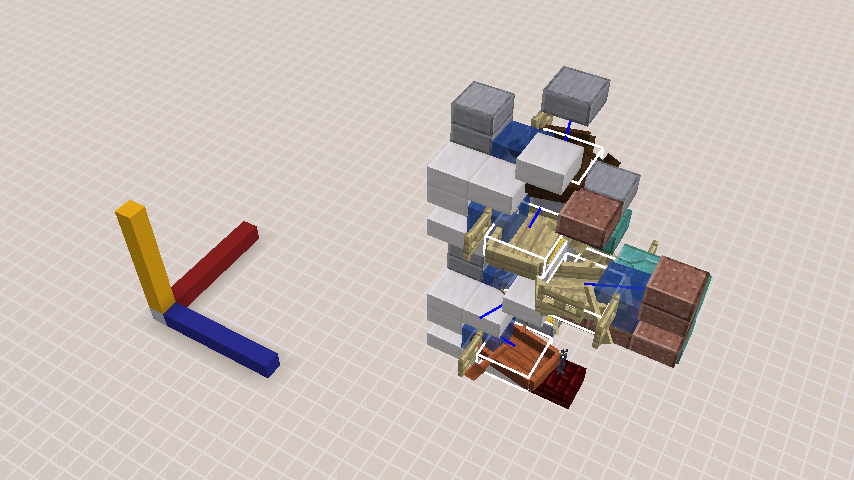
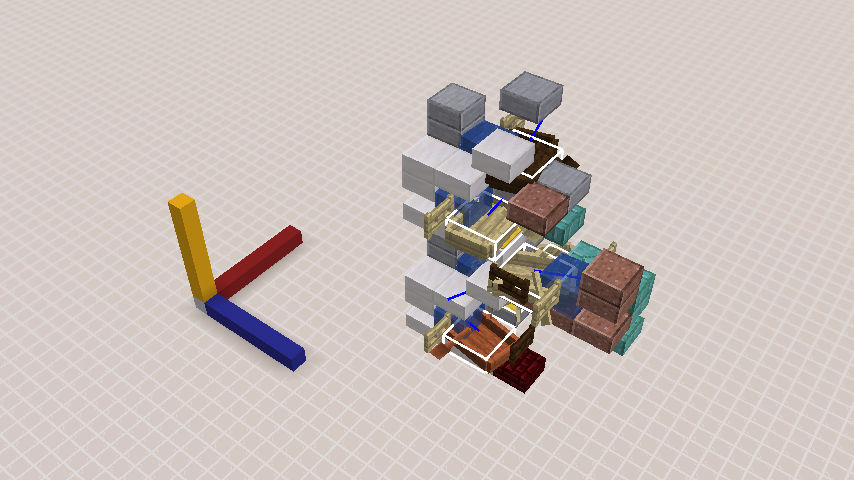
补充潜影贝初始朝向相关内容

Changed region(s): [[0.4567, 0.125, 0.8525, 0.8438], [0.1218, 0.4062, 0.3653, 0.8125]]

diff --git a/articles/2025-09__shulker_rotation/2025-09__shulker_rotation.md b/articles/2025-09__shulker_rotation/2025-09__shulker_rotation.md
@@ -214,8 +214,23 @@ public class ShulkerEntity extends GolemEntity implements Monster {
     /* ... */
 }
 ```
+```java
+public abstract class LivingEntity extends Entity {
+    /* ... */
+	protected LivingEntity(EntityType<? extends LivingEntity> entityType, World world) {
+		super(entityType, world);
+        /* ...其他无关的初始化逻辑... */
+		this.setYaw((float)(Math.random() * (float) (Math.PI * 2)));    // 将 yaw（单位是角度）设置为 [0.0f, 2 * PI) 中的随机值
+		this.headYaw = this.getYaw();
+        /* ...其他无关的初始化逻辑... */
+	}
+    /* ... */
+}
+```
 
 不难发现，以上代码不是初始化，就是处理客户端-服务端之间的同步逻辑，没有在后续改变水平朝向。
+
+值得注意的是在 `LivingEntity` 构造器中，生物的水平朝向被初始化为 `[0.0f, 2 * PI)` 中的随机值，但是这一属性是按照角度来使用的，这就导致大部分生物被创建时会大致朝向 +z 方向而不是别的方向。对于潜影贝来说，`/summon` 命令、刷怪蛋生成会调用 `ShulkerEntity.initialize(...)` 方法，水平旋转严格为 `0.0f`；而末地城连带生成、因潜影弹击中而生成的潜影贝不会调用 `ShulkerEntity.initialize(...)` 方法，水平旋转为 `[0.0f, 2 * PI)` 中的随机值。
 
 
 ## 七、乘客上船时是否会改变水平朝向
@@ -391,7 +406,7 @@ yellowxuuu 的视频中只是演示了分离装置并用“手性”来解释这
 
 ## 十一、恢复原始水平朝向
 
-下图是一种将任意水平朝向的潜影贝逐步调整回 +z 朝向的原型装置（水平旋转为 0 时的朝向）设计版本为 1.18.1。只保证朝向相同，不保证 `yaw` 的数值相等，有可能是 `360.0f`, `-360.0f` 等数字。红色下界砖为潜影贝初始位置。
+下图是一种将任意水平朝向的潜影贝逐步调整回 +z 朝向（水平旋转为 0 时的朝向）的原型装置，设计版本为 1.18.1。只保证朝向相同，不保证 `yaw` 的数值相等，有可能是 `360.0f`, `-360.0f` 等数字。红色下界砖为潜影贝初始位置。
 
 几艘船的水平朝向从下至上依次是：
 - （金合欢木船）任意，模拟潜影贝被随机旋转的状况
